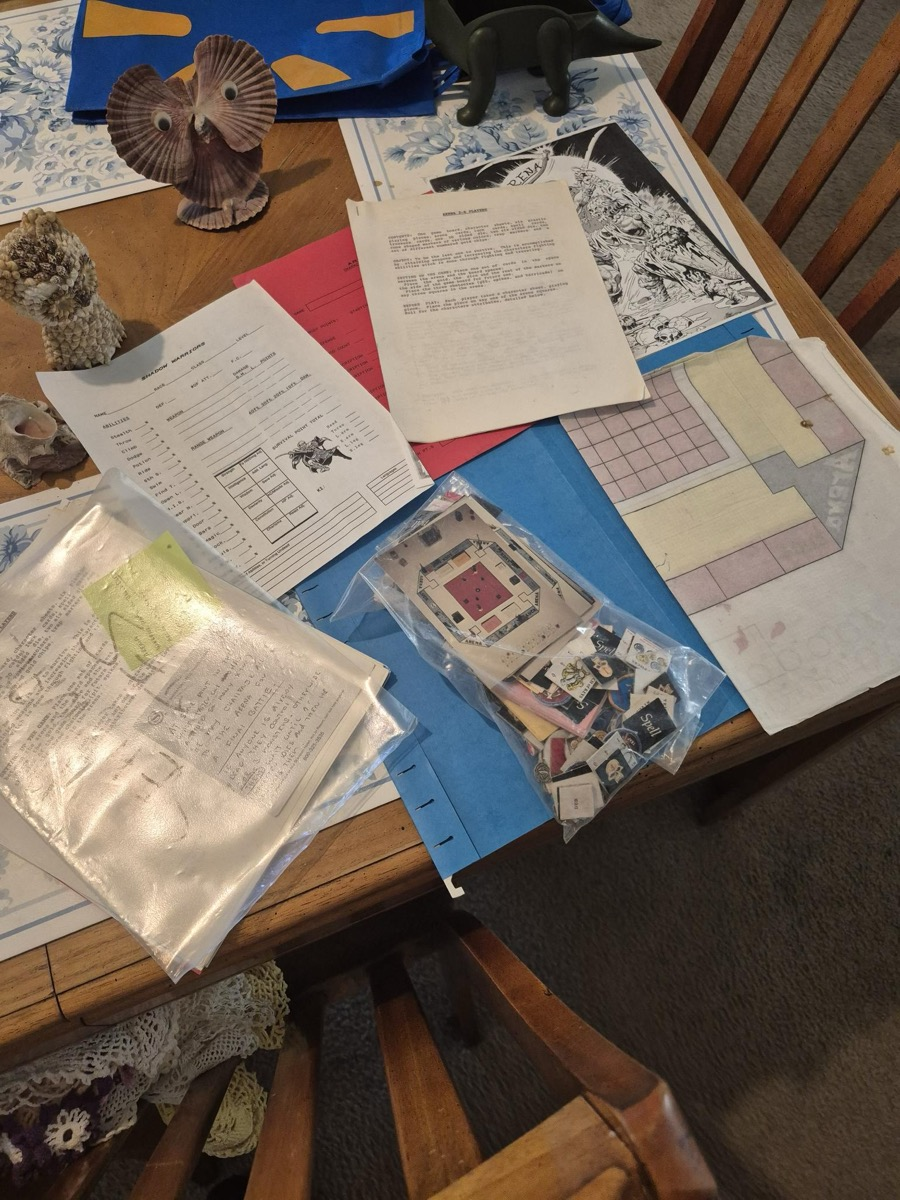
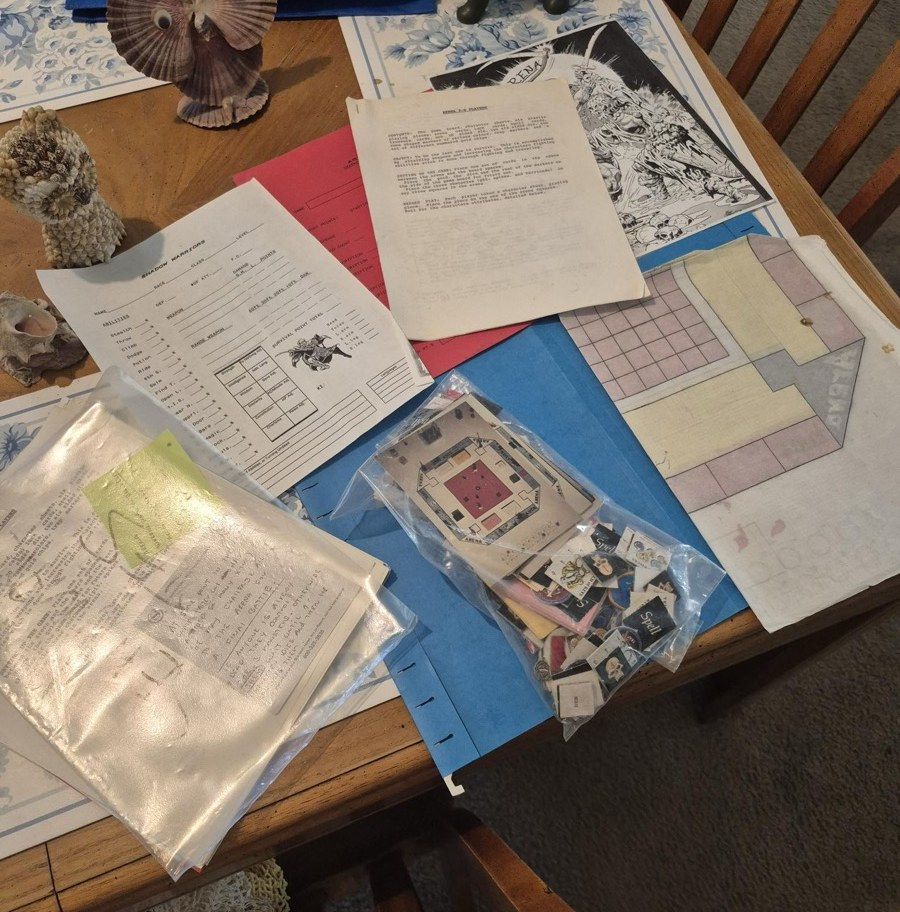
The game shots were selling the games short
The mid-play section showed three wide board captures, and at that size a
DungeonHole floor is mostly empty grey tiles and an AstroHold grid is mostly
empty grey grid. Rick's read of the live page: it does not sell it, and in a
way it makes the games look worse. He is right, so the wide shots are out.

In their place, six close ups cropped from those same real captures, at 2x
nearest neighbour so the pixel art stays crisp: the party of four on the
deploy tiles, the chest worth the detour, the cauldron over its fire, the
power core the turret line is defending, a four legged walker mid advance,
and the Kageyama map. They sit slightly tilted in the column beside the
game chapter, which had been standing empty because the text is short and
the visuals column is four items tall.

A seventh crop was made and thrown away. The advancing cyborg squad still
read as figures scattered on grey, which was the original problem.

Also: the childhood game photo lost 102px off the top and 186px off the
bottom, so the chair back and the carpet stop competing with the character
sheets, the hand drawn board and the bag of cut tiles.

Two loose ends closed with it. The apps caption pointed readers at "the game
scenes" section that no longer exists, and now points at the close ups. The
Ninja Village line worth keeping, that every screen is a choice and the
choices are the whole game, moved into the new caption rather than dying
with the section.
[…]

diff --git a/aininja/index.html b/aininja/index.html
@@ -240,18 +240,22 @@ h1,h2,h3{font-family:"Archivo","Helvetica Neue",Arial,sans-serif;color:var(--ink
 .spr-fig{display:flex;flex-direction:column;align-items:center;gap:8px}
 .spr-fig small{font-size:11px;font-weight:800;color:var(--muted);letter-spacing:.06em;text-transform:uppercase}
 
-/* game scenes, captured mid-play */
-.scenes{padding:84px 0;border-bottom:1px solid var(--line)}
-.scenes .k,.scenes h2{text-align:center}
-.scenes h2{font-size:clamp(26px,4vw,38px);font-weight:900;margin-top:8px}
-.scenes .sub{text-align:center;color:var(--muted);font-weight:700;margin-top:10px;max-width:58ch;margin-left:auto;margin-right:auto}
-.scene-grid{margin-top:38px;display:grid;grid-template-columns:repeat(3,1fr);gap:18px}
-@media (max-width:900px){ .scene-grid{grid-template-columns:1fr} }
-.scene-grid figure{margin:0}
-.scene-grid img{display:block;width:100%;aspect-ratio:4/3;object-fit:cover;object-position:center;
-  border-radius:14px;border:1px solid var(--line);background:#14100a}
-.scene-grid figcaption{padding:10px 2px 0;font-size:13px;font-weight:700;color:var(--muted);line-height:1.5}
-.scene-grid figcaption b{color:var(--ink);font-weight:900}
+/* the sprinkle: close ups from the games, filling the space the chapter text
+   leaves empty. The wide board shots that used to sit in their own section
+   read as mostly empty grey at that size, which sold the games short. */
+.sprinkle{display:grid;grid-template-columns:repeat(3,1fr);gap:10px;margin-top:28px}
+.sprinkle figure{margin:0;transition:transform .3s ease}
+.sprinkle figure:nth-child(3n+1){transform:rotate(-1.6deg)}
+.sprinkle figure:nth-child(3n+2){transform:rotate(.9deg)}
+.sprinkle figure:nth-child(3n+3){transform:rotate(-.7deg)}
+.sprinkle figure:hover{transform:rotate(0deg) scale(1.07);position:relative;z-index:2}
+.sprinkle img{display:block;width:100%;aspect-ratio:1;object-fit:cover;border-radius:12px;
+  border:1px solid var(--line);image-rendering:pixelated;
+  box-shadow:0 6px 16px rgba(16,20,24,.10)}
+@media (prefers-reduced-motion:reduce){ .sprinkle figure{transition:none} }
+@media (max-width:520px){ .sprinkle{grid-template-columns:repeat(2,1fr)} }
+.sprinkle-cap{margin-top:15px;font-size:12.5px;font-weight:700;color:var(--muted);line-height:1.55}
+.sprinkle-cap b{color:var(--ink);font-weight:900}
 
 /* CH 5: the TewBeDo console, rebuilt as the real buttons instead of screenshots */
 .tb-mock{grid-column:1/-1;background:#0f1424;border-radius:16px;border:1px solid #232a45;overflow:hidden;margin-top:6px;position:relative;z-index:1}
@@ -852,6 +856,15 @@ footer a:hover{text-decoration:underline}
         <p>Every builder has one goal they carry for decades. Mine was a game with my name on it, on the Apple App Store. In one May, DungeonHole, AstroHold, TEWGO, Ninja Village and Ninja Defense all went from nothing to playable.</p>
         <p><b>TEWGO made it onto the Apple App Store.</b> Honest notes from the work: the other games are still fighting me, games are genuinely hard, and apps and business tools are far easier. That honesty matters later in this story.</p>
       </div>
+      <div class="sprinkle">
+        <figure><img src="assets/story/games/close-dh-party.jpg" alt="DungeonHole: the Knight, Monk, Cleric and Wizard standing on the green deploy tiles" loading="lazy"></figure>
+        <figure><img src="assets/story/games/close-dh-treasure.jpg" alt="DungeonHole: a glowing gold chest sitting on the dungeon floor" loading="lazy"></figure>
+        <figure><img src="assets/story/games/close-dh-cauldron.jpg" alt="DungeonHole: a cauldron bubbling over an open fire" loading="lazy"></figure>
+        <figure><img src="assets/story/games/close-ah-core.jpg" alt="AstroHold: the turret line and the glowing power core behind it" loading="lazy"></figure>
+        <figure><img src="assets/story/games/close-ah-mech.jpg" alt="AstroHold: a four legged walker mid advance across the grid" loading="lazy"></figure>
+        <figure><img src="assets/story/games/close-nv-map.jpg" alt="Ninja Village: the Kageyama map with your village marked and a ninja standing beside it" loading="lazy"></figure>
+      </div>
+      <p class="sprinkle-cap">Close ups from three of the five, at the size the games actually draw them. <b>DungeonHole:</b> the party on the deploy tiles, the chest worth the detour, the cauldron. <b>AstroHold:</b> the power core the turret line is there to defend, and a walker mid advance. <b>Ninja Village:</b> Kageyama, where every screen is a choice and the choices are the whole game.</p>
     </div>
     <div class="ch-vis">
       <div class="phone-fan">
@@ -895,30 +908,6 @@ footer a:hover{text-decoration:underline}
   </div>
 </section>
 
-<!-- the games themselves, mid-play -->
-<section class="scenes" id="scenes">
-  <div class="wrap rv">
-    <div class="k">Not screenshots of a menu</div>
-    <h2>What it looks like when you actually play</h2>
-    <p class="sub">Three of the five, captured mid-session. Same characters as the wall above, doing their job.</p>
-  </div>
-  <div class="wrap">
-    <div class="scene-grid">
-      <figure class="rv">
-        <img src="assets/story/games/dungeonhole-party.jpg" alt="A DungeonHole floor: the tiled dungeon board with chests, a cauldron and the party of four placed on the green deploy tiles" loading="lazy">
-        <figcaption><b>DungeonHole</b> &middot; floor one of five. Knight, Monk, Cleric and Wizard placed on the deploy tiles, chests priced in gold, the horde filling the real dungeon out of sight.</figcaption>
-      </figure>
-      <figure class="rv">
-        <img src="assets/story/games/astrohold-battle.jpg" alt="An AstroHold battle: cyborgs advancing across the grid on a robot defence line and the glowing power core" loading="lazy">
-        <figcaption><b>AstroHold</b> &middot; a live battle. Cyborgs breaking for the power core, the turret line and the repair bot holding it, one shot already away.</figcaption>
-      </figure>
-      <figure class="rv">
-        <img src="assets/story/games/ninjavillage-kageyama.jpg" alt="Ninja Village: the Kageyama map, the Land of Shadows, with the first choice on screen" loading="lazy">
-        <figcaption><b>Ninja Village</b> &middot; Kageyama, the Land of Shadows. A different kind of game: every screen is a choice, and the choices are the whole thing.</figcaption>
-      </figure>
-    </div>
-  </div>
-</section>
 
 <div class="timeline">
   <div class="tl-rail" aria-hidden="true"></div>
@@ -1029,7 +1018,7 @@ footer a:hover{text-decoration:underline}
     <div class="row-label">And the icons they open from</div>
     <div class="shelf-rail" id="shelf2" aria-hidden="true"></div>
 
-    <p class="sub" style="margin-top:34px;font-size:13.5px">Eleven of the thirteen are in the live row. Ninja Village runs landscape only, so it sits up in the game scenes instead, and NEWNEI is not public yet.</p>
+    <p class="sub" style="margin-top:34px;font-size:13.5px">Eleven of the thirteen are in the live row. Ninja Village runs landscape only, so it sits up in the close ups instead, and NEWNEI is not public yet.</p>
   </div>
 </section>
 
